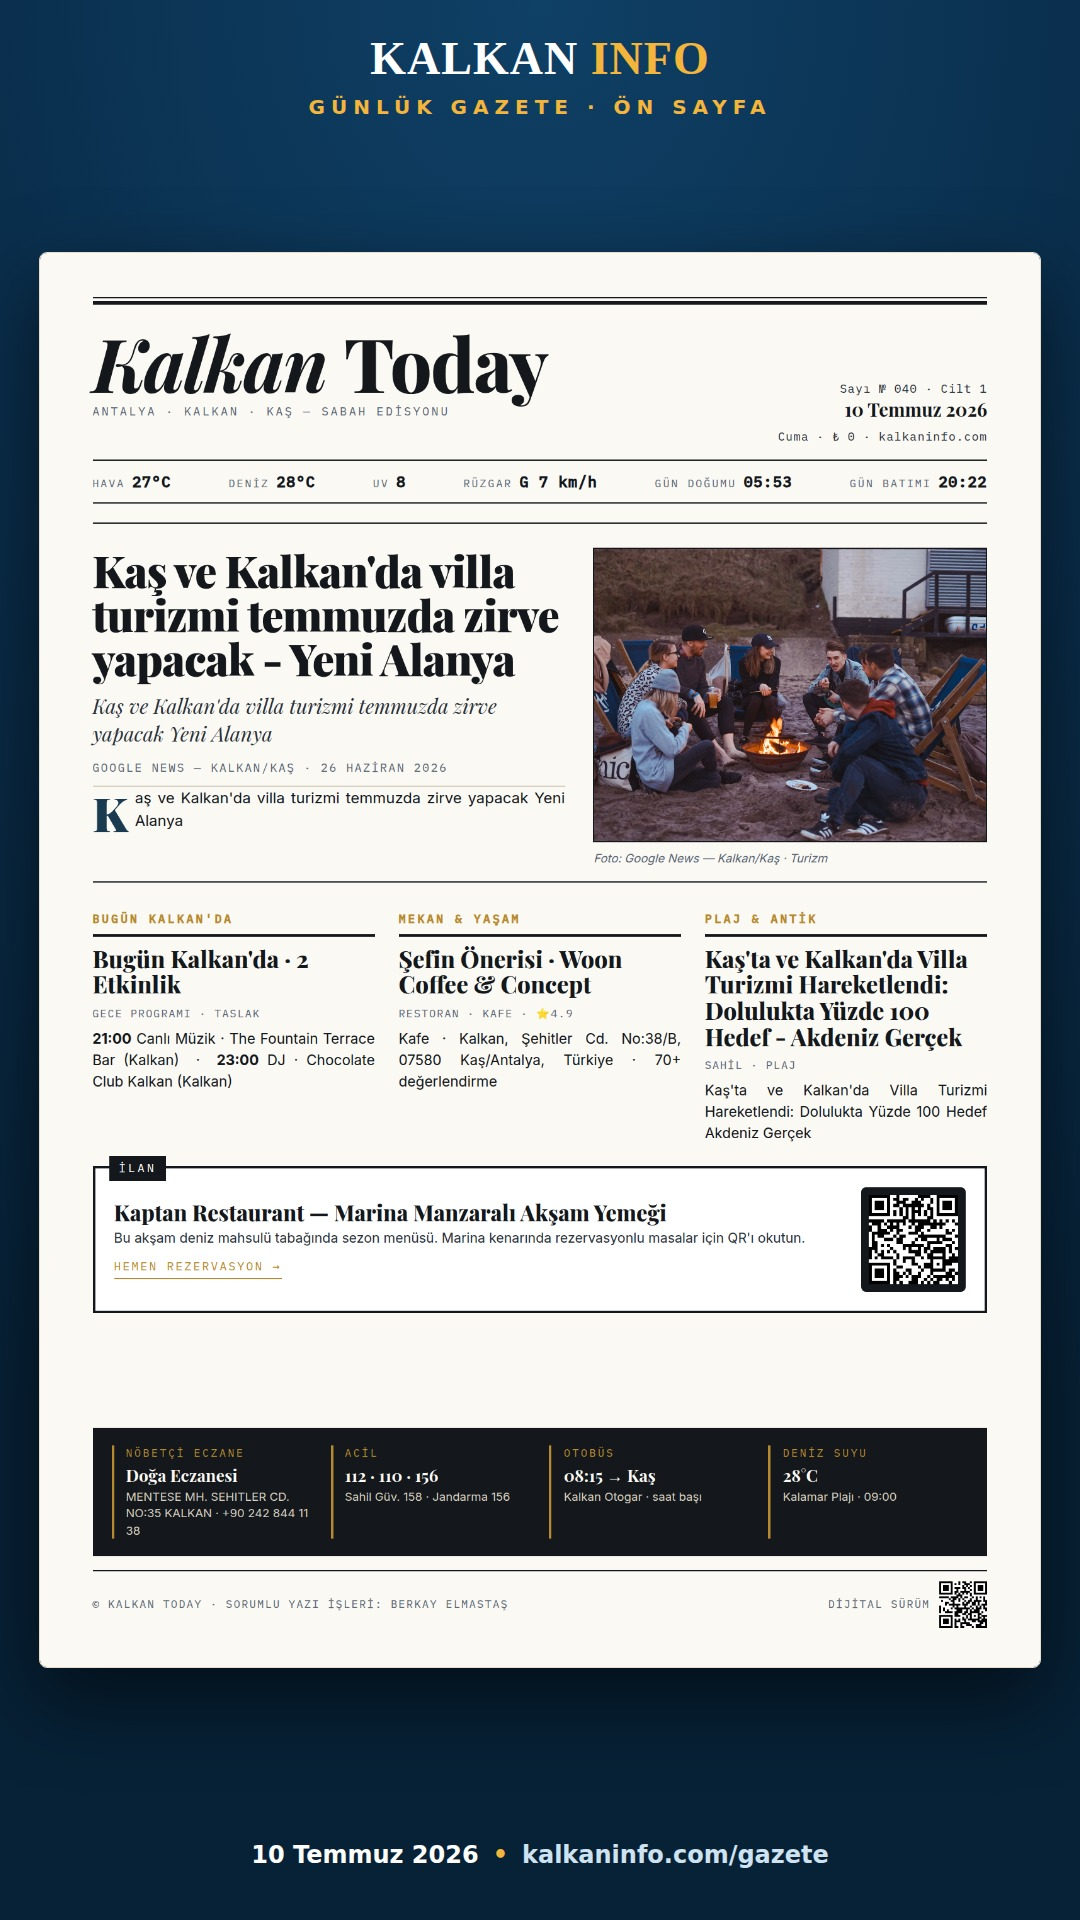
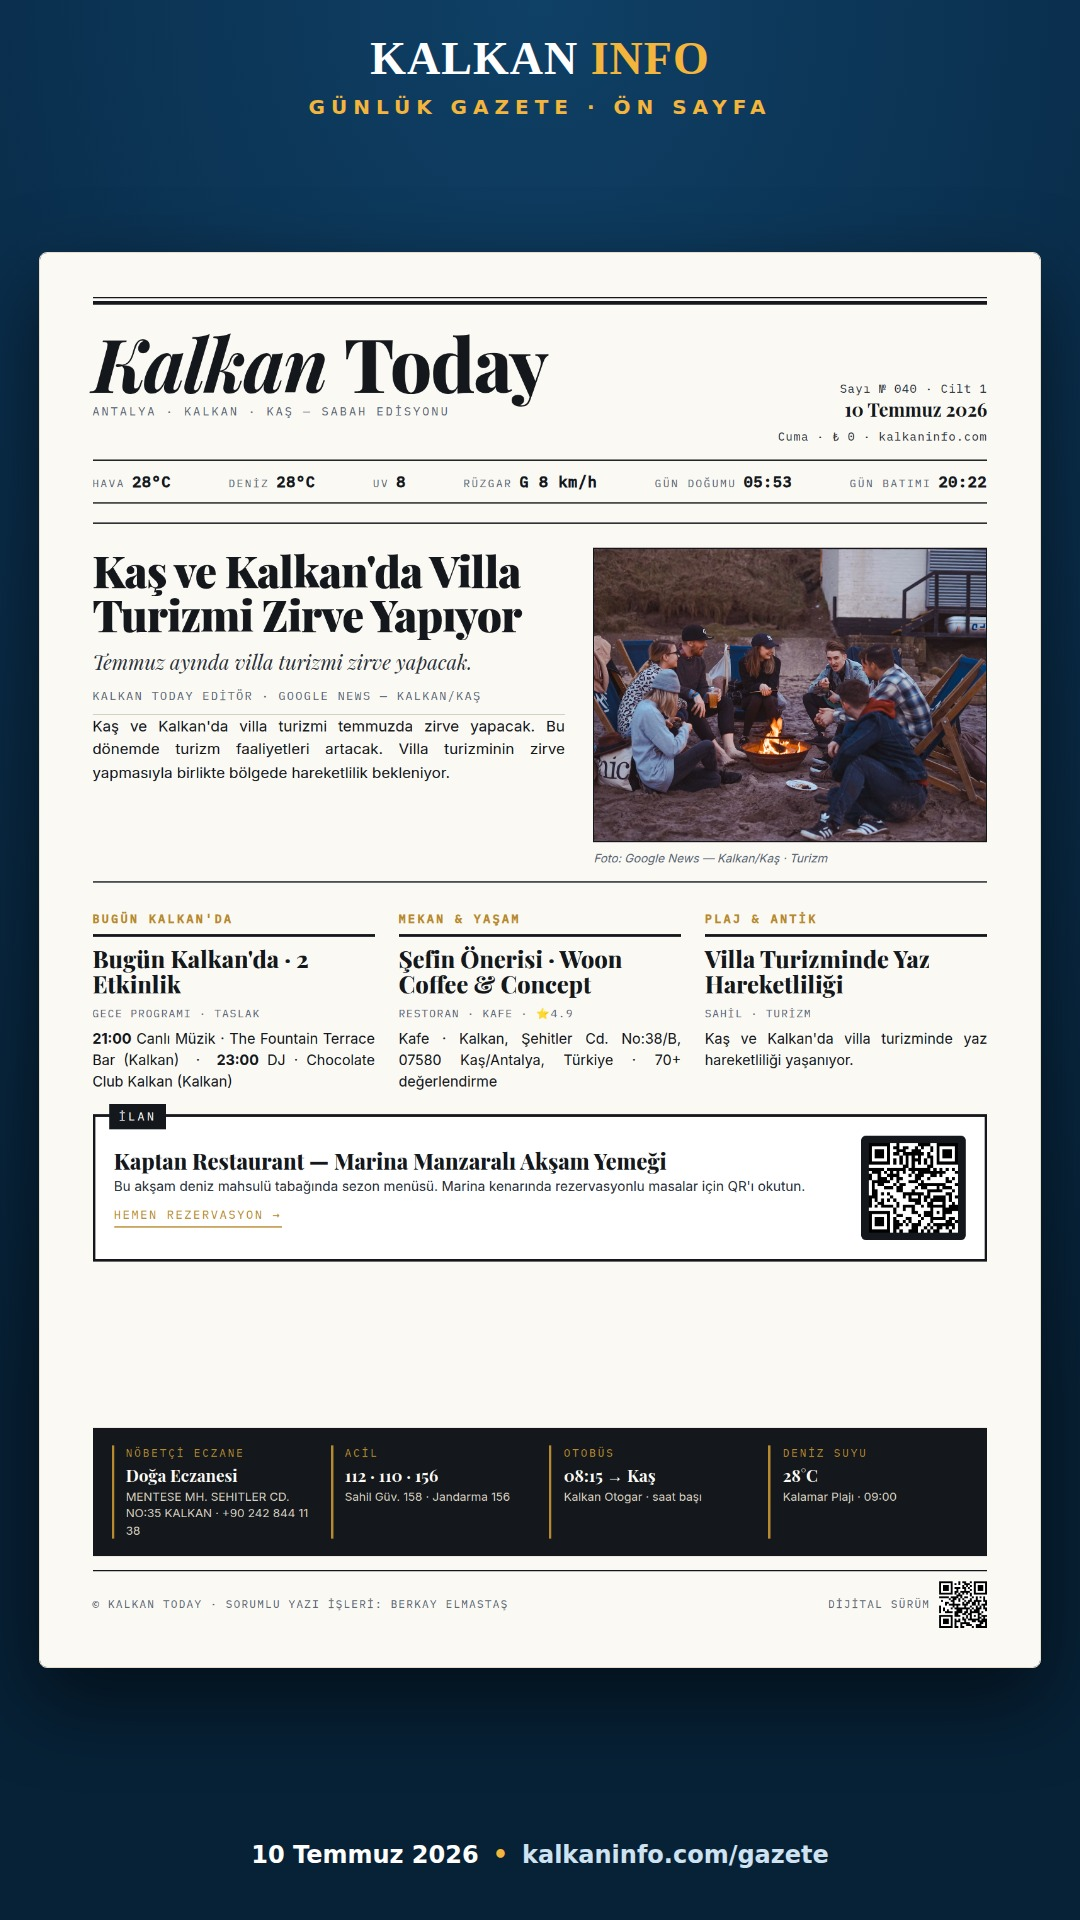
content(gazete): günlük sayı 2026-07-10 [auto]

Changed region(s): [[0.0917, 0.4688, 0.9167, 0.6875], [0.0917, 0.2812, 0.5194, 0.4375]]

diff --git a/newspaper/archive/2026-07-10/morning.html b/newspaper/archive/2026-07-10/morning.html
@@ -339,10 +339,10 @@
       </div>
     </div>
     <div class="weather-strip">
-      <div class="item"><span class="lbl">Hava</span><span class="val">27°C</span></div>
+      <div class="item"><span class="lbl">Hava</span><span class="val">28°C</span></div>
       <div class="item"><span class="lbl">Deniz</span><span class="val">28°C</span></div>
       <div class="item"><span class="lbl">UV</span><span class="val">8</span></div>
-      <div class="item"><span class="lbl">Rüzgar</span><span class="val">G 7 km/h</span></div>
+      <div class="item"><span class="lbl">Rüzgar</span><span class="val">G 8 km/h</span></div>
       <div class="item"><span class="lbl">Gün Doğumu</span><span class="val">05:53</span></div>
       <div class="item"><span class="lbl">Gün Batımı</span><span class="val">20:22</span></div>
     </div>
@@ -351,11 +351,11 @@
   <!-- ═══ LEAD STORY ═══ -->
   <section class="lead">
     <div>
-      <h1 class="lead-headline">Kaş ve Kalkan'da villa turizmi temmuzda zirve yapacak - Yeni Alanya</h1>
-      <p class="lead-deck">Kaş ve Kalkan'da villa turizmi temmuzda zirve yapacak Yeni Alanya</p>
-      <div class="lead-byline">Google News — Kalkan/Kaş · 26 Haziran 2026</div>
+      <h1 class="lead-headline">Kaş ve Kalkan'da Villa Turizmi Zirve Yapıyor</h1>
+      <p class="lead-deck">Temmuz ayında villa turizmi zirve yapacak.</p>
+      <div class="lead-byline">Kalkan Today Editör · Google News — Kalkan/Kaş</div>
       <div class="lead-body">
-        <p>Kaş ve Kalkan'da villa turizmi temmuzda zirve yapacak Yeni Alanya</p>
+        Kaş ve Kalkan'da villa turizmi temmuzda zirve yapacak. Bu dönemde turizm faaliyetleri artacak. Villa turizminin zirve yapmasıyla birlikte bölgede hareketlilik bekleniyor.
       </div>
     </div>
     <div>
@@ -382,9 +382,9 @@
 
     <article class="col">
       <h3 class="kicker">Plaj & Antik</h3>
-      <h2>Kaş'ta ve Kalkan'da Villa Turizmi Hareketlendi: Dolulukta Yüzde 100 Hedef - Akdeniz Gerçek</h2>
-      <div class="byline">Sahil · Plaj</div>
-      <p>Kaş'ta ve Kalkan'da Villa Turizmi Hareketlendi: Dolulukta Yüzde 100 Hedef Akdeniz Gerçek</p>
+      <h2>Villa Turizminde Yaz Hareketliliği</h2>
+      <div class="byline">Sahil · Turizm</div>
+      <p>Kaş ve Kalkan'da villa turizminde yaz hareketliliği yaşanıyor.</p>
     </article>
   </section>
 
